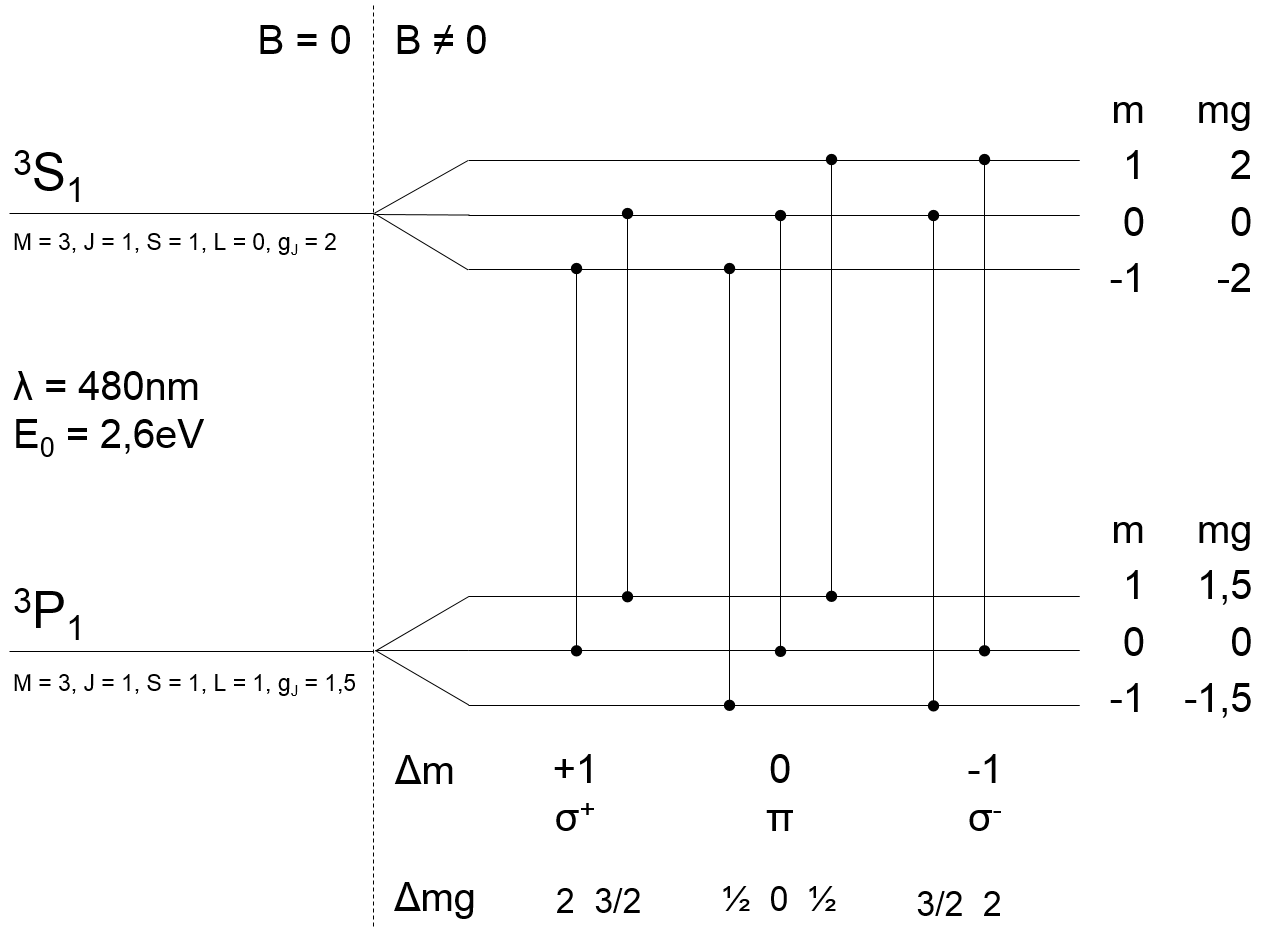
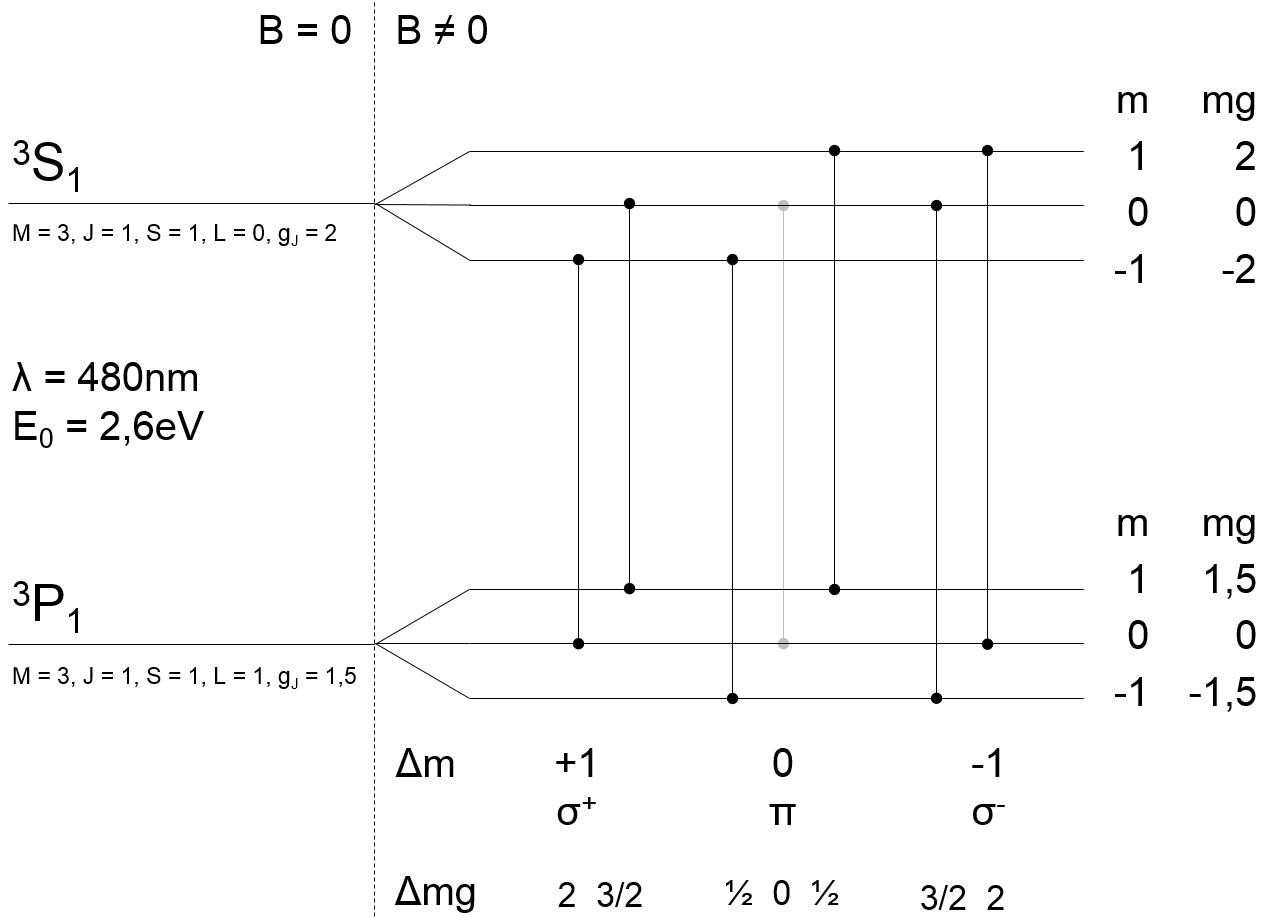
Termschema korrigiert

diff --git a/zeeman/protokoll/theorie.tex b/zeeman/protokoll/theorie.tex
@@ -79,7 +79,7 @@ Die Polarisierung ist parallel zu $\vec{B}$.
 Im Fall $\Delta m = \pm 1$ ist das Licht zirkular polarisiert.
 Die Drehrichtung ist in beiden Fällen unterschiedlich.
 
-Die zu $\Delta m = 0$ gehörige Spektrallinie hat die gleiche Energie wie die ohne Magnetfeld beobachtete Linie.
+Die zu $\Delta m = 0$ gehörigen Spektrallinien haben die gleiche Energie wie die ohne Magnetfeld beobachtete Linie.
 Sie wird mit $\pi$ bezeichnet.
 Die anderen Linien heißen $\sigma^+$ oder $\sigma^-$.
 
@@ -115,12 +115,15 @@ Dabei ist $E_0$ die Energie der Spektrallinie, die ohne Magnetfeld beobachtet wi
 \begin{figure}
 	\centering
 	\includegraphics[width=0.8\textwidth]{img/rot}
-	\caption{Thermschema der roten Spektrallinie von Cadmium, normaler Zeeman-Effekt}
+	\caption{Termschema der roten Spektrallinie von Cadmium, normaler Zeeman-Effekt}
 	\label{fig:rot}
 \end{figure}
 \begin{figure}
 	\centering
 	\includegraphics[width=0.8\textwidth]{img/blau}
-	\caption{Thermschema der blauen Spektrallinie von Cadmium, anormaler Zeeman-Effekt}
+	\caption{Termschema der blauen Spektrallinie von Cadmium, anormaler Zeeman-Effekt}
 	\label{fig:blau}
 \end{figure}
+
+Die Abbildungen \ref{fig:rot} und \ref{fig:blau} zeigen das Termschema für die rote und blaue Linie des Cadmium-Spektrums, die in diesem Versuch untersucht werden sollen.
+Bei der mittleren Linie der blauen Linie ($m_1 = m_2 = 0$) tritt ein Sonderfall auf, bei dem diese Linie nicht beobachtet wird, obwohl sie nach den oben beschriebenen Auswahlregeln erwartet wird.
